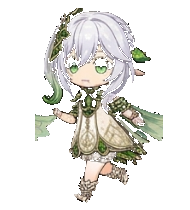
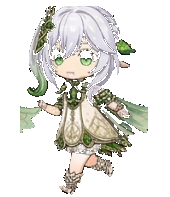
fix(companion): revert movement frames, allow dragging beyond top, and keep thought bubble locked directly above head

Changed region(s): [[0.1176, 0.0305, 0.8824, 1.0], [0.8235, 0.6701, 0.8529, 0.7005]]

diff --git a/src/components/athena_widget.rs b/src/components/athena_widget.rs
@@ -163,7 +163,7 @@ pub fn AthenaWidget() -> impl IntoView {
                 None => return,
             };
             let win_w = win.inner_width().ok().and_then(|v| v.as_f64()).unwrap_or(1200.0);
-            let win_h = win.inner_height().ok().and_then(|v| v.as_f64()).unwrap_or(800.0);
+            let _win_h = win.inner_height().ok().and_then(|v| v.as_f64()).unwrap_or(800.0);
             let right_boundary = (win_w - 90.0).max(120.0);
 
             // Compute delta time with tab-suspension clamping
@@ -182,7 +182,7 @@ pub fn AthenaWidget() -> impl IntoView {
                 if let Some((target_x, target_bottom)) = pointer_drag_pos.get() {
                     let prev_x = pos_x;
                     pos_x = target_x.clamp(left_boundary, right_boundary);
-                    pos_bottom = target_bottom.clamp(floor_bottom, win_h - 120.0);
+                    pos_bottom = target_bottom.max(floor_bottom);
 
                     if pos_x < prev_x - 0.5 {
                         direction = Direction::Left;
@@ -243,9 +243,8 @@ pub fn AthenaWidget() -> impl IntoView {
                 state = CharacterState::ChatStandby;
                 state_time = 0.0;
                 anim_accum_ms = 0.0;
-                // Preserve floating altitude if clicked in mid-air (clamped so thought bubble fits on screen)
-                let max_dock_bottom = (win_h - 540.0 - 140.0).max(floor_bottom);
-                chat_anchor_bottom = pos_bottom.clamp(floor_bottom, max_dock_bottom);
+                // Preserve floating altitude if clicked in mid-air (stays at current height)
+                chat_anchor_bottom = pos_bottom.max(floor_bottom);
                 pos_bottom = chat_anchor_bottom;
 
                 set_current_sprite.set(POSE_STANDBY);
@@ -615,7 +614,7 @@ pub fn AthenaWidget() -> impl IntoView {
         let modal_left = ideal_left.clamp(12.0, (win_w - modal_width - 12.0).max(12.0));
 
         // Position bottom of thought bubble directly above Nahida's head (+ gap for connector dots)
-        let modal_bottom = (bottom.get() + 116.0).min(win_h - modal_height - 16.0).max(16.0);
+        let modal_bottom = bottom.get() + 116.0;
 
         // Tail connector offset (points directly down towards Athena)
         let tail_x = (athena_center_x - modal_left).clamp(36.0, modal_width - 36.0);
